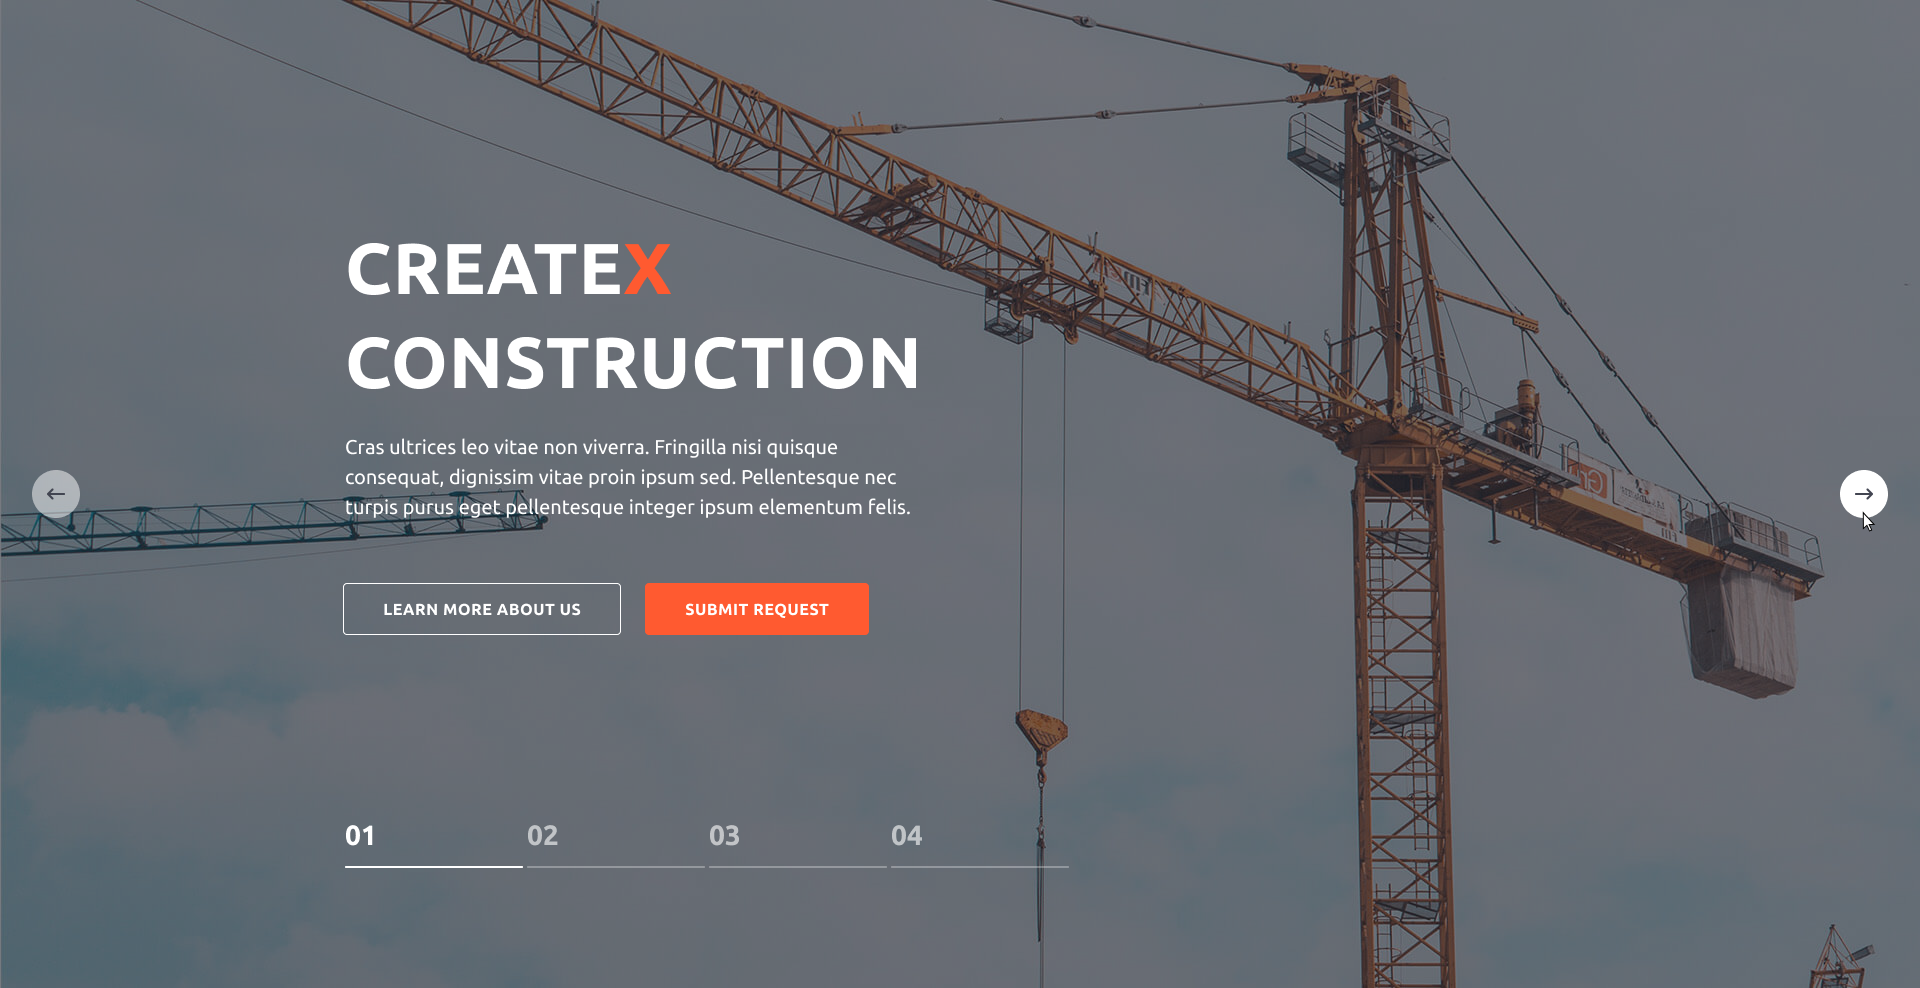
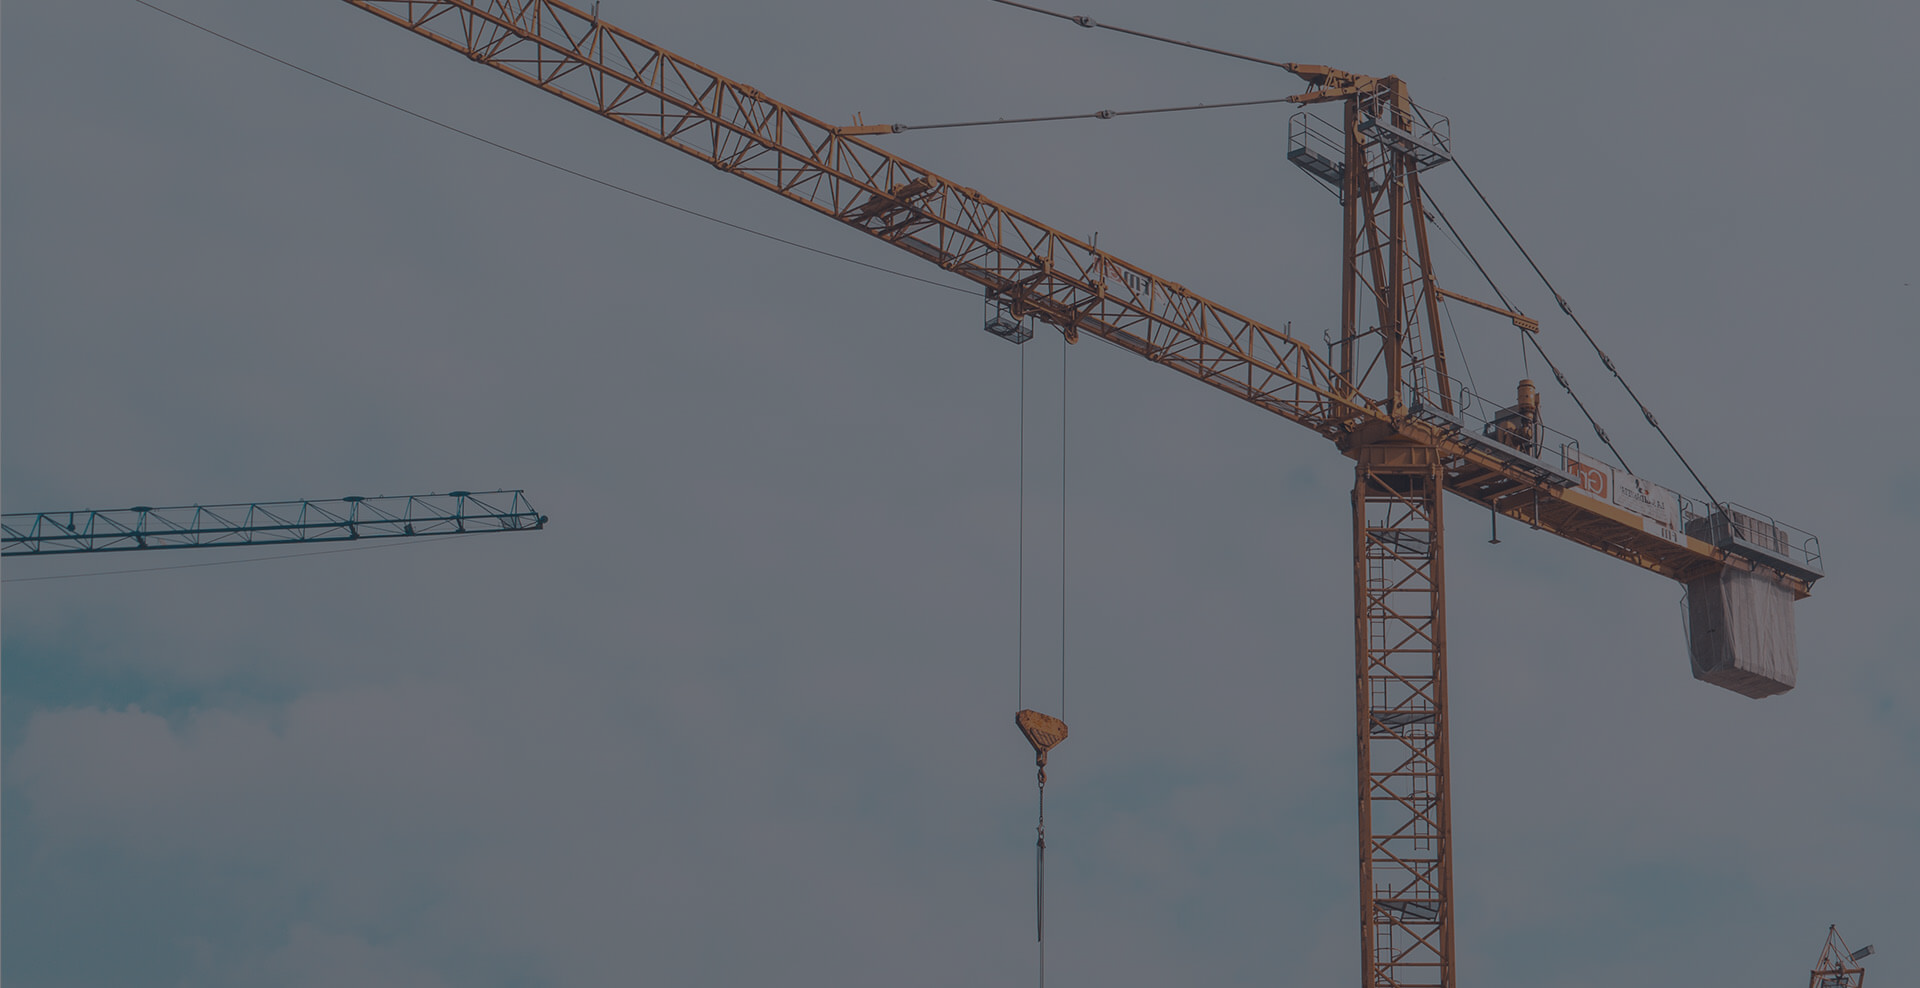
about-section

diff --git a/src/scss/_settings.scss b/src/scss/_settings.scss
@@ -1,54 +1,106 @@
 html {
-  box-sizing: border-box;
+	box-sizing: border-box;
 }
 
 *,
 *::before,
 *::after {
-  box-sizing: inherit;
+	box-sizing: inherit;
 }
 
 body {
-  margin: 0;
-  font-family: "Ubuntu", sans-serif;
-  font-weight: 400;
+	margin: 0;
+	font-family: "Ubuntu", sans-serif;
+	font-weight: 400;
 }
 
 img {
-  max-width: 100%;
+	max-width: 100%;
 }
 
 a {
-  text-decoration: none;
+	text-decoration: none;
 }
 
 .site-container {
-  overflow: hidden; // если используете на сайте position: sticky - уберите эту настройку
+	overflow: hidden; // если используете на сайте position: sticky - уберите эту настройку
 }
 
 .is-hidden {
-  display: none !important; // stylelint-disable-line declaration-no-important
+	display: none !important; // stylelint-disable-line declaration-no-important
 }
 
 .btn-reset {
-  border: none;
-  padding: 0;
-  background: transparent;
-  cursor: pointer;
+	border: none;
+	padding: 0;
+	background: transparent;
+	cursor: pointer;
 }
 
 .list-reset {
-  list-style: none;
-  margin: 0;
-  padding: 0;
+	list-style: none;
+	margin: 0;
+	padding: 0;
 }
 
 .container {
-  margin: 0 auto;
-  padding: 0 15px;
-  max-width: 1260px;
+	margin: 0 auto;
+	padding: 0 15px;
+	max-width: 1260px;
 }
 
 .js-focus-visible :focus:not(.focus-visible) {
-  outline: none;
+	outline: none;
+}
+
+.main-title {
+	margin: 0;
+	margin-bottom: 25px;
+	font-weight: 700;
+	font-size: 72px;
+	line-height: 130%;
+	color: $color-ebony;
+	letter-spacing: 1px;
+	text-transform: uppercase;
+
+	span {
+		color: $color-primary;
+	}
+	&--home {
+		color: $color-light;
+	}
+}
+.main-descr {
+	margin: 0;
+	font-weight: 400;
+	font-size: 20px;
+	line-height: 150%;
+	color: $color-storm;
+
+	&--home {
+		color: $color-light;
+		margin-bottom: 60px;
+	}
+}
+.btn {
+	border-style: solid;
+	border-width: 1px;
+	border-color: transparent;
+	font-weight: 700;
+	font-size: 16px;
+	line-height: 20px;
+	letter-spacing: 0.5px;
+	text-transform: uppercase;
+	color: $color-light;
+	border-radius: 4px;
+	padding: 15px 39px;
+
+	&--fill {
+		background-color: $color-primary;
+	}
+	&--stroke {
+		&-light {
+			border-color: $color-light;
+		}
+	}
 }

diff --git a/src/partials/hero.html b/src/partials/hero.html
@@ -1,12 +1,12 @@
 <section class="hero">
 	<div class="container hero__container">
 		<div class="hero__content">
-			<h1 class="main-title">Create<span>x</span> Construction</h1>
-			<p class="main-descr">Cras ultrices leo vitae non viverra. Fringilla nisi quisque consequat, dignissim vitae proin ipsum sed. Pellentesque nec
+			<h1 class="main-title main-title--home ">Create<span>x</span> Construction</h1>
+			<p class="main-descr main-descr--home">Cras ultrices leo vitae non viverra. Fringilla nisi quisque consequat, dignissim vitae proin ipsum sed. Pellentesque nec
 			turpis purus eget pellentesque integer ipsum elementum felis.</p>
 			<div class="hero__btns">
-				<button class="btn-reset btn btn--stroke btn--stroke-white">Learn more about us</button>
-				<button class="btn-reset btn btn--fill btn--stroke-primary">SUBMIT REQUEST</button>
+				<button class="btn-reset btn btn--stroke btn--stroke-light">Learn more about us</button>
+				<button class="btn-reset btn btn--fill ">Submit Request</button>
 			</div>
 		</div>
 	</div>

diff --git a/src/scss/components/_hero.scss b/src/scss/components/_hero.scss
@@ -1,31 +1,25 @@
 .hero {
+	padding-top: 222px;
+	padding-bottom: 354px;
 	background-image: url(../img/hero-bg.png);
 	background-position: center;
-	background-size: center;
+	background-size: cover;
+	background-repeat: no-repeat;
+	background-color: grey;
 		// .hero__container
 		&__container {
 		}
 		// .hero__content
 		&__content {
+			max-width: 590px;
 		}
 		// .hero__btns
 		&__btns {
+			.btn{
+				&:not(:last-child){
+					margin-right: 20px;
+				}
+			}
 		}
 }
 
-.main-title {
-}
-.main-descr {
-}
-.btn-reset {
-}
-.btn {
-}
-.btn--stroke {
-}
-.btn--stroke-white {
-}
-.btn--fill {
-}
-.btn--stroke-primary {
-}

diff --git a/src/scss/main.scss b/src/scss/main.scss
@@ -4,10 +4,11 @@
 @import "fonts";
 @import "settings";
 
+// подключения маленьких компонентов страницы
+@import "./components/nav";
+@import "./components/header-contacts";
+
 // подключения компонентов страницы
 @import "./components/header";
 @import "./components/hero";
 
-// подключения маленьких компонентов страницы
-@import "./components/nav";
-@import "./components/header-contacts";

diff --git a/src/partials/about-section.html b/src/partials/about-section.html
@@ -1,0 +1,6 @@
+<section class="about-section">
+	<div class="container">
+		<h2 class="title tittle--center">We are Createx Construction Bureau</h2>
+		<p class="descr descr--center">We are rightfully considered to be the best construction company in the USA.</p>
+	</div>
+</section>

diff --git a/src/index.html b/src/index.html
@@ -16,6 +16,7 @@
 	<div class="site-container">
 		@include('partials/header.html')
 		@include('partials/hero.html')
+		@include('partials/about-section.html')
 
 		@include('partials/footer.html')
 		<!-- @include('html/h1.html') пример инклуда -->

diff --git a/src/scss/components/_header-contacts.scss b/src/scss/components/_header-contacts.scss
@@ -25,7 +25,7 @@
 	&__value {
 		font-size: 18px;
 		line-height: 150%;
-		color: #1e212c;
+		color: $color-ebony;
 	}
 }
 .contacts-link--call {

diff --git a/src/scss/components/_header.scss b/src/scss/components/_header.scss
@@ -1,5 +1,6 @@
 .header{
-	padding: 23px 0;
+	padding-top: 23px;
+	padding-bottom: 21px;
 
 	&--main{
 		background-color: $color-light;

diff --git a/src/scss/_vars.scss b/src/scss/_vars.scss
@@ -6,3 +6,6 @@
 }
 $color-grey: #424551;
 $color-light: #fff;
+$color-storm: #787a80;
+$color-ebony: #1e212c;
+$color-primary:#FF5A30;
